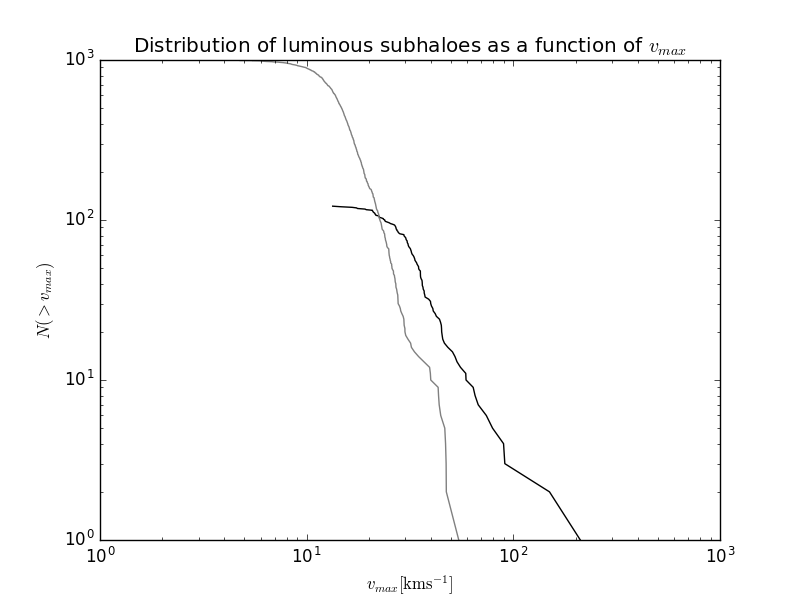
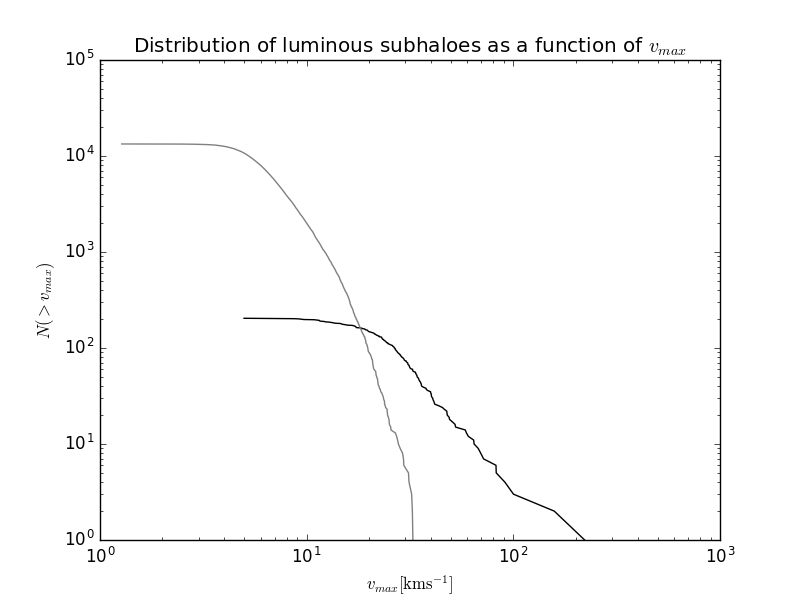
Removed bugs from MR plot scripts.

diff --git a/MR_Plots/PlotSubhaloData/plot_SMFvsVmax_MR.py b/MR_Plots/PlotSubhaloData/plot_SMFvsVmax_MR.py
@@ -2,8 +2,8 @@ import numpy as np
 import h5py
 import time
 import matplotlib.pyplot as plt
-from read_subhaloData import read_subhaloData
-from read_header import read_header
+from read_subhaloData_MR import read_subhaloData
+from read_header_MR import read_header
 
 class plot_SMF_vs_Vmax:
 
@@ -21,11 +21,14 @@ class plot_SMF_vs_Vmax:
 
     def calc_median_trend2(self, x, y):
         xy = np.vstack([x,y])
+        
+        # Sort into ascending order by x:
         xy = xy[:,xy[0,:].argsort()]
+
         bars = 10
         datapoints = xy[0,:].size
 
-        #Excĺude last elements (if necessary) to allow reshaping:
+        # Excĺude last elements (if necessary) to allow reshaping:
         if (datapoints%bars != 0):
             tmpX = xy[0,:-(datapoints%bars)]
             tmpY = xy[1,:-(datapoints%bars)]
@@ -37,9 +40,6 @@ class plot_SMF_vs_Vmax:
         #Reshape into a 2D numpy array with number of rows = bars:
         tmpX = tmpX.reshape((bars, int(datapoints/bars)))
         tmpY = tmpY.reshape((bars, int(datapoints/bars)))
-
-        #xSplit = xy[0,:-(xy[0,:].size%bars)].reshape((int(xy[0,:].size/bars), bars))
-
 
         #Calculate the medians of the rows of the reshaped arrays:
         medianX = np.median(tmpX, axis=1)
@@ -71,21 +71,16 @@ class plot_SMF_vs_Vmax:
         axes.scatter(self.maxVelocitiesSat, self.stellarMassesSat, s=3, c='red', edgecolor='none', label='satellite galaxies')
         axes.scatter(self.maxVelocitiesIsol, self.stellarMassesIsol, s=3, c='blue', edgecolor='none', label='isolated galaxies')
 
-#        start = time.clock()
-#        median = self.calc_median_trend2(self.maxVelocitiesSat, self.stellarMassesSat)
-#        axes.plot(median[0], median[1], c='red', linestyle='--')
+        median = self.calc_median_trend2(self.maxVelocitiesSat, self.stellarMassesSat)
+        axes.plot(median[0], median[1], c='red', linestyle='--')
 
         axes.legend()
         axes.set_xlabel('$v_{max}[\mathrm{km s^{-1}}]$')
         axes.set_ylabel('$M_*[\mathrm{M_\odot}]$')
         axes.set_title('SMF of luminous subhaloes')
-#        axes.set_xlim([10, 100])
-#        axes.set_ylim([10**6, 10**10])
 
-        plt.savefig('SMF_vs_Vmax.png')
+        plt.savefig('SMF_vs_Vmax_MR.png')
         plt.close()
 
 slice = plot_SMF_vs_Vmax() 
 slice.plot()
-#slice.compute_slice()
-

diff --git a/MR_Plots/PlotPartPos/plot_part_pos_byGroup_MR.py b/MR_Plots/PlotPartPos/plot_part_pos_byGroup_MR.py
@@ -3,8 +3,8 @@ import h5py
 import time
 import matplotlib.pyplot as plt
 import matplotlib.colors as clrs
-from read_dataset import read_dataset
-from read_header import read_header
+from read_dataset_MR import read_dataset
+from read_header_MR import read_header
 
 class plot_slice:
 
@@ -36,7 +36,7 @@ class plot_slice:
     def __init__(self, part_type):
         self.part_type = part_type
         self.a, self.h, self.massTable, self.boxsize = read_header() 
-        self.width = 1 #Mpc/h
+        self.width = 0.1 #Mpc/h
         self.coords = read_dataset(part_type, 'Coordinates')
         self.subGroupNumbers = read_dataset(part_type, 'SubGroupNumber')
         self.groupNumbers = read_dataset(part_type, 'GroupNumber')
@@ -65,16 +65,8 @@ class plot_slice:
 
         axes.scatter(x, y, s=0.1, c=col, edgecolor='none', cmap='viridis_r')
 
-        #Get a list of all available colors (however, now the colors are arbitrary...)
-#        colors = list(clrs.cnames.keys())
-#        color = 0
-#        for subgroup in self.coordsBySubGroup.values():
-#            axes.scatter(subgroup[:,1], subgroup[:,2], s=0.1, c=colors[color], edgecolor='none')
-#            color += 1
-
-        plt.show()
-#        plt.savefig('dm_bySubgroup.png')
-#        plt.close()
+        plt.savefig('slice_partType%i_bySubGroup_MR.png'%self.part_type)
+        plt.close()
 
 slice = plot_slice(1) 
 slice.plot()

diff --git a/MR_Plots/PlotSubhaloData/plot_cumulDistByVmax_MR.py b/MR_Plots/PlotSubhaloData/plot_cumulDistByVmax_MR.py
@@ -2,10 +2,10 @@ import numpy as np
 import h5py
 import time
 import matplotlib.pyplot as plt
-from read_subhaloData import read_subhaloData
-from read_header import read_header
+from read_subhaloData_MR import read_subhaloData
+from read_header_MR import read_header
 
-class plot_SMF_vs_Vmax:
+class plot_subhalo_dist_vs_vmax:
 
     def __init__(self):
         maxVelocities = read_subhaloData('Vmax')
@@ -13,6 +13,8 @@ class plot_SMF_vs_Vmax:
         self.maxVelocitiesLum = maxVelocities[np.logical_and(maxVelocities > 0, stellarMasses > 0)]
         self.maxVelocitiesDark = maxVelocities[np.logical_and(maxVelocities > 0, stellarMasses == 0)]
 
+        print(self.maxVelocitiesDark.size)
+        #Sort arrays in descending order:
         self.maxVelocitiesLum[::-1].sort()
         self.maxVelocitiesDark[::-1].sort()
 
@@ -30,10 +32,9 @@ class plot_SMF_vs_Vmax:
         axes.set_ylabel('$N(>v_{max})$')
         axes.set_title('Distribution of luminous subhaloes as a function of $v_{max}$')
 
-        plt.savefig('dist-of-subhaloes-as-function-of-Vmax.png')
+        plt.savefig('dist-of-subhaloes-as-function-of-Vmax_MR.png')
         plt.close()
 
-
-slice = plot_SMF_vs_Vmax() 
+slice = plot_subhalo_dist_vs_vmax() 
 slice.plot()
 

diff --git a/MR_Plots/PlotSubhaloData/plot_VmaxRadiusvsVmax_MR.py b/MR_Plots/PlotSubhaloData/plot_VmaxRadiusvsVmax_MR.py
@@ -1,8 +1,8 @@
 import numpy as np
 import h5py
 import matplotlib.pyplot as plt
-from read_subhaloData import read_subhaloData
-from read_header import read_header
+from read_subhaloData_MR import read_subhaloData
+from read_header_MR import read_header
 
 class plot_Rmax_vs_Vmax:
 
@@ -33,13 +33,11 @@ class plot_Rmax_vs_Vmax:
         axes.legend()
         axes.set_xlabel('$v_{max}[\mathrm{km s^{-1}}]$')
         axes.set_ylabel('$r_{max}[\mathrm{kpc}]$')
-#        axes.set_xlim([10, 100])
-#        axes.set_ylim([10**6, 10**10])
 
-        plt.savefig('rmax_vs_vmax.png')
+        plt.show()
+        plt.savefig('rmax_vs_vmax_MR.png')
         plt.close()
 
 slice = plot_Rmax_vs_Vmax()
 slice.plot()
-#slice.compute_slice()
 

diff --git a/MR_Plots/PlotPartPos/plot_partsInSlice_MR.py b/MR_Plots/PlotPartPos/plot_partsInSlice_MR.py
@@ -41,17 +41,14 @@ class plot_slice:
 
         axes.scatter(self.coords[:,1], self.coords[:,2], s=0.01)
 
-        axes.set_title('Particles (type %i) in a volume slice centered on a LG analogue'%self.part_type)
+        axes.set_title('Particles (type %i) in a volume slice'%self.part_type)
 
-        #plt.savefig('slice_partType%i_MR.png'%self.part_type)
-        #plt.close()
-        plt.show()
+        plt.savefig('slice_partType%i_MR.png'%self.part_type)
+        plt.close()
 
-slice = plot_slice(4)
-slice.plot()
-#part_types = [0,1,4]
-#for n in part_types:
-#    print(n)
-#    slice = plot_slice(n) 
-#    slice.plot()
+
+part_types = [0,1,4]
+for n in part_types:
+    slice = plot_slice(n) 
+    slice.plot()
 
